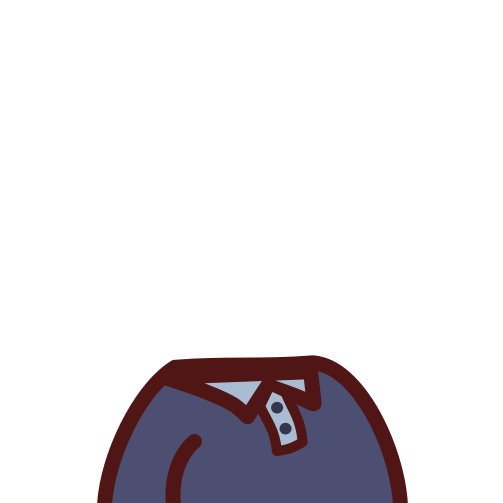
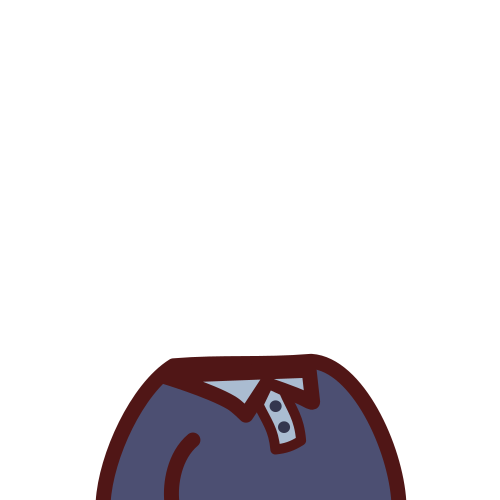
randomized clothings

diff --git a/streamlit_app.py b/streamlit_app.py
@@ -21,26 +21,32 @@ if project == 'Foxiez':
     list_background = ['rice', 'pink', 'yellow', 'green', 'blue-dots', 'green-dots', 'yellow-dots', 'snow']
     list_expressions = ['default-smile', 'eyes-closed', 'frown', 'kawaii-smile', 'sad', 'sleepy', 'sophisticated', 'wink']
     list_hats = ['none', 'brim-bucket', 'bucket', 'mushroom', 'strawhat']
-    list_body = ['body']
+    list_clothings = ['default-body', 'apron', 'blue-collar-shirt', 'blue-tie', 'fish-tshirt', 'red-collar-shirt', 'scarf']
 
     col1, col2 = st.columns(2)
     option_expressions = col1.selectbox('Expressions', list_expressions)
     option_hats = col1.selectbox('Hats', list_hats)
+    option_clothings = col1.selectbox('Clothes', list_clothings)
     option_background = col1.selectbox('Background', list_background)
 
     if col2.button('Randomize'):
         option_expressions = list_expressions[random.randint(0, len(list_expressions)-1)]
         option_hats = list_hats[random.randint(0, len(list_hats)-1)]
+        option_clothings = list_clothings[random.randint(0, len(list_clothings)-1)]
         option_background = list_background[random.randint(0, len(list_background)-1)]
 
     background = Image.open(r'png/foxie/background/%s.png' % option_background)
-    body = Image.open(r'png/foxie/body.png')
+    clothes = Image.open(r'png/foxie/clothings/%s.png' % option_clothings)
     hat = Image.open(r'png/foxie/hats/%s.png' % option_hats)
     expression = Image.open(r'png/foxie/expressions/%s.png' % option_expressions)
+    head = Image.open(r'png/foxie/default-head.png')
+    ear = Image.open(r'png/foxie/default-ears.png')
 
-    first_step = Image.alpha_composite(background, body)
-    second_step = Image.alpha_composite(first_step, hat)
-    final = Image.alpha_composite(second_step, expression)
+    step1 = Image.alpha_composite(background, clothes)
+    step2 = Image.alpha_composite(step1, ear)
+    step3 = Image.alpha_composite(step2, head)
+    step4 = Image.alpha_composite(step3, hat)
+    final = Image.alpha_composite(step4, expression)
 
     final.save('./foxie.png')
     col2.image(Image.open("./foxie.png"))
